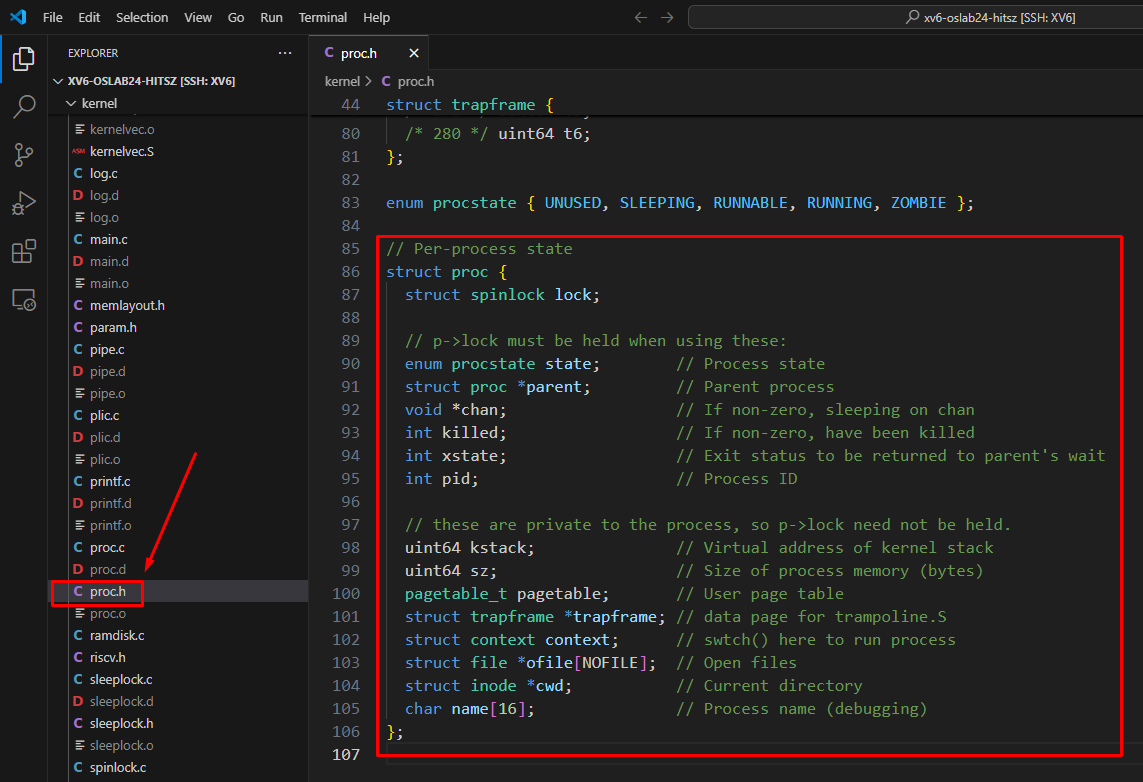
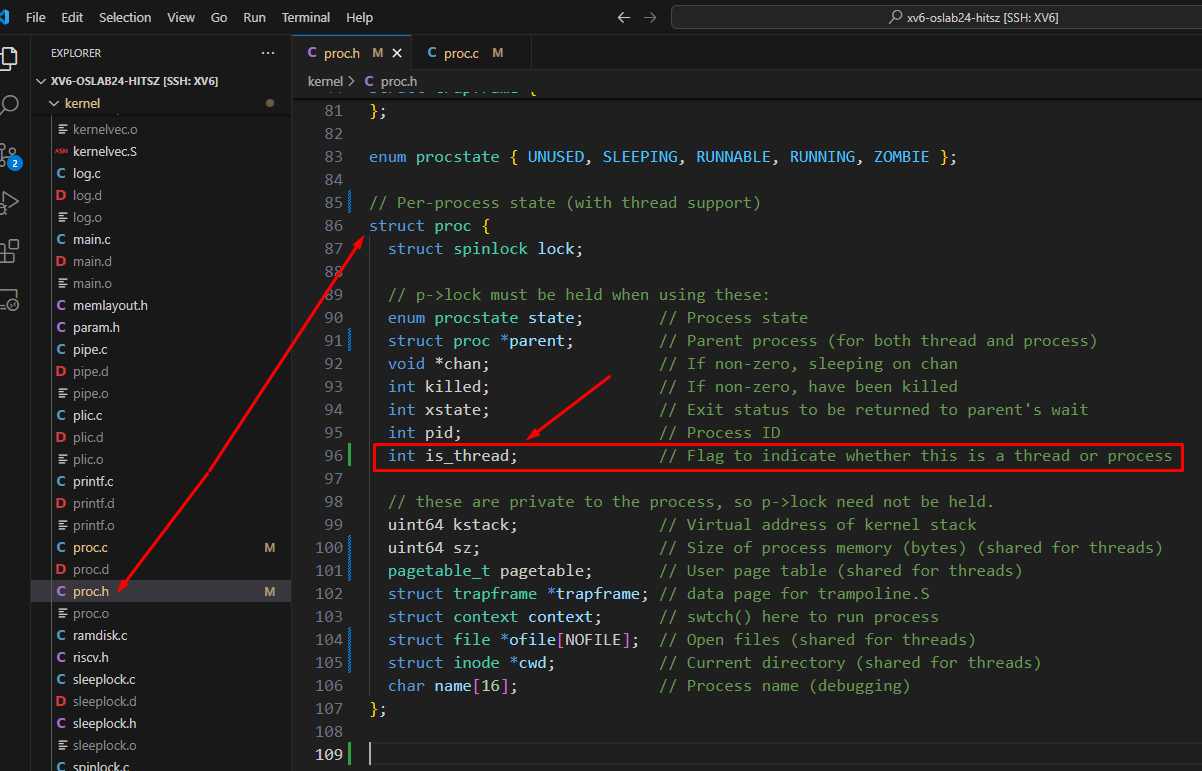
update proc.c

diff --git a/Chapter08/XV6/kernel/proc.c b/Chapter08/XV6/kernel/proc.c
@@ -619,3 +619,126 @@ void procdump(void) {
     printf("\n");
   }
 }
+
+
+int thread_create(void (*start_routine)(void*), void *arg, void *stack)
+{
+  int pid;
+  struct proc *np;
+  struct proc *p = myproc();
+
+  // Allocate process.
+  if((np = allocproc()) == 0)
+    return -1;
+
+  // Set up new thread's context.
+  np->pagetable = p->pagetable;  // Share the same address space
+  np->sz = p->sz;                // Shared memory size
+  np->parent = p;
+  np->is_thread = 1;             // Mark as thread
+  np->cwd = idup(p->cwd);        // Share current directory
+  for(int i = 0; i < NOFILE; i++)
+    if(p->ofile[i])
+      np->ofile[i] = filedup(p->ofile[i]);  // Share file descriptors
+
+  // Assign stack and start routine
+  np->trapframe->epc = (uint64)start_routine;  // Set the instruction pointer to start_routine
+  np->trapframe->sp = (uint64)stack + PGSIZE;  // Assign the new stack
+  np->trapframe->a0 = (uint64)arg;             // Pass argument to the thread
+
+  pid = np->pid;
+
+  // Ready to run.
+  np->state = RUNNABLE;
+  release(&np->lock);
+
+  return pid;
+}
+
+void thread_exit(void) {
+  struct proc *p = myproc();
+  struct proc *parent = p->parent;
+
+  if (p == initproc) panic("init exiting");
+
+  // 关闭所有打开的文件
+  for (int fd = 0; fd < NOFILE; fd++) {
+    if (p->ofile[fd]) {
+      struct file *f = p->ofile[fd];
+      fileclose(f);
+      p->ofile[fd] = 0;
+    }
+  }
+
+  begin_op();
+  iput(p->cwd);
+  end_op();
+  p->cwd = 0;
+
+  acquire(&p->lock);
+
+  // 将子线程分配给init进程
+  reparent(p);
+
+  // 更新线程状态为ZOMBIE
+  p->xstate = 0; // 线程的退出状态，按需设置
+  p->state = ZOMBIE;
+
+  // 唤醒父进程（或父线程）
+  if (parent) {
+    acquire(&parent->lock);
+    wakeup1(parent);
+    release(&parent->lock);
+  }
+
+  release(&p->lock);
+
+  // 调度器切换，永远不会返回
+  sched();
+  panic("zombie thread exit");
+}
+
+
+int thread_join(int pid, uint64 addr) {
+  struct proc *np;
+  int havechild;
+  struct proc *p = myproc();
+
+  acquire(&p->lock);
+
+  for (;;) {
+    havechild = 0;
+    for (np = proc; np < &proc[NPROC]; np++) {
+      // 确保线程属于当前进程
+      if (np->pid == pid && np->parent == p) {
+        acquire(&np->lock);
+        havechild = 1;
+        if (np->state == ZOMBIE) {
+          // 找到一个已退出的线程
+          int xstate = np->xstate;
+          if (addr != 0 && copyout(p->pagetable, addr, (char *)&xstate, sizeof(xstate)) < 0) {
+            release(&np->lock);
+            release(&p->lock);
+            return -1;
+          }
+          freeproc(np);
+          release(&np->lock);
+          release(&p->lock);
+          return pid;
+        }
+        release(&np->lock);
+      }
+    }
+
+    // 如果没有子线程或进程被杀死，则返回
+    if (!havechild || p->killed) {
+      release(&p->lock);
+      return -1;
+    }
+
+    // 等待线程退出
+    sleep(p, &p->lock);
+  }
+}
+
+

diff --git a/Chapter08/Chapter08.md b/Chapter08/Chapter08.md
@@ -39,6 +39,10 @@ int is_thread;               // Flag to indicate whether this is a thread or pro
 
 内核进程操作在 **kernel/proc.c** 中，我们增加三个方法：
 
+
+
+点击这里查看--代码修改
+
 ```
 // 线程创建
 int  thread_create(void (*start_routine)(void*), void *arg, void *stack)
@@ -50,6 +54,12 @@ void thread_exit(void)
 int  thread_join(int pid)
 
 ```
+
+[点击这里查看--原始代码](https://github.com/hitsz-ids/tutorial/blob/63696fbb703cc847f22f5125140497c3dd4cd395/Chapter08/XV6/kernel/proc.c)
+
+点击这里查看--修改后的代码
+
+
 
 
 
